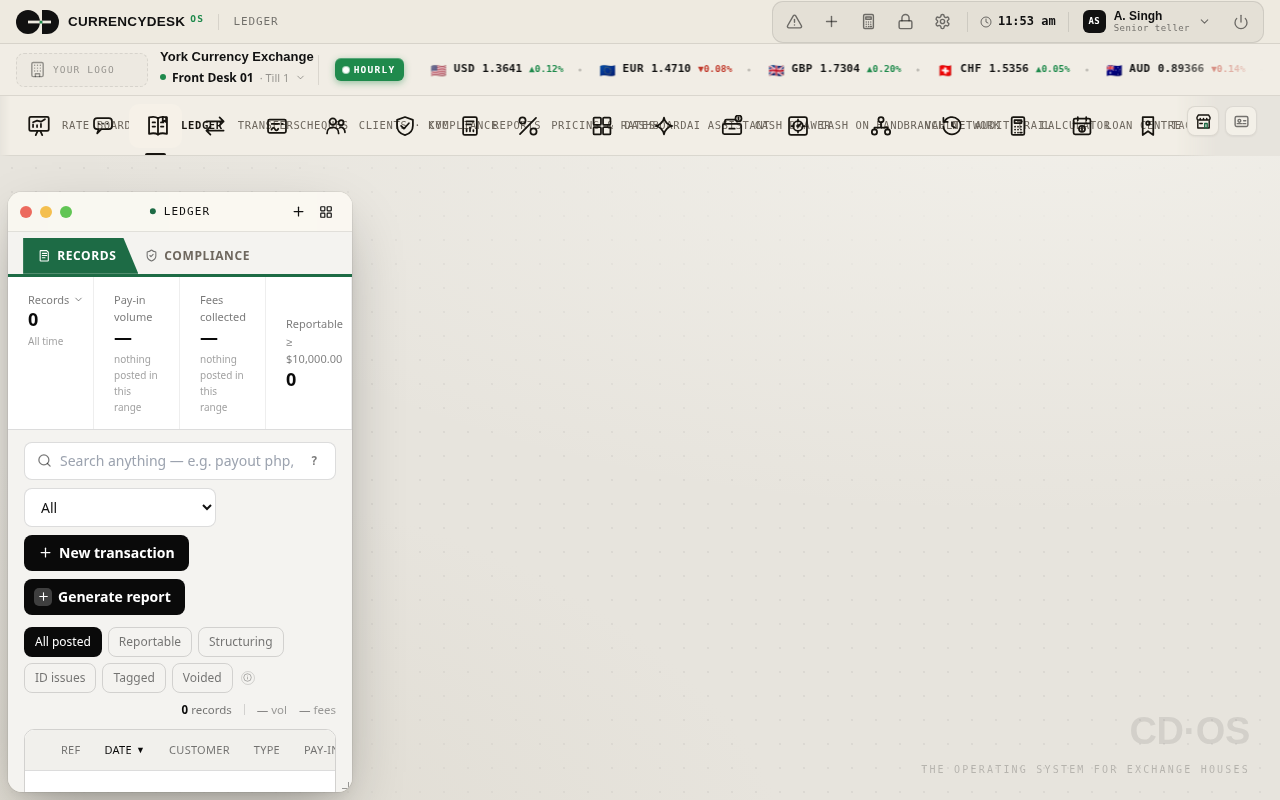
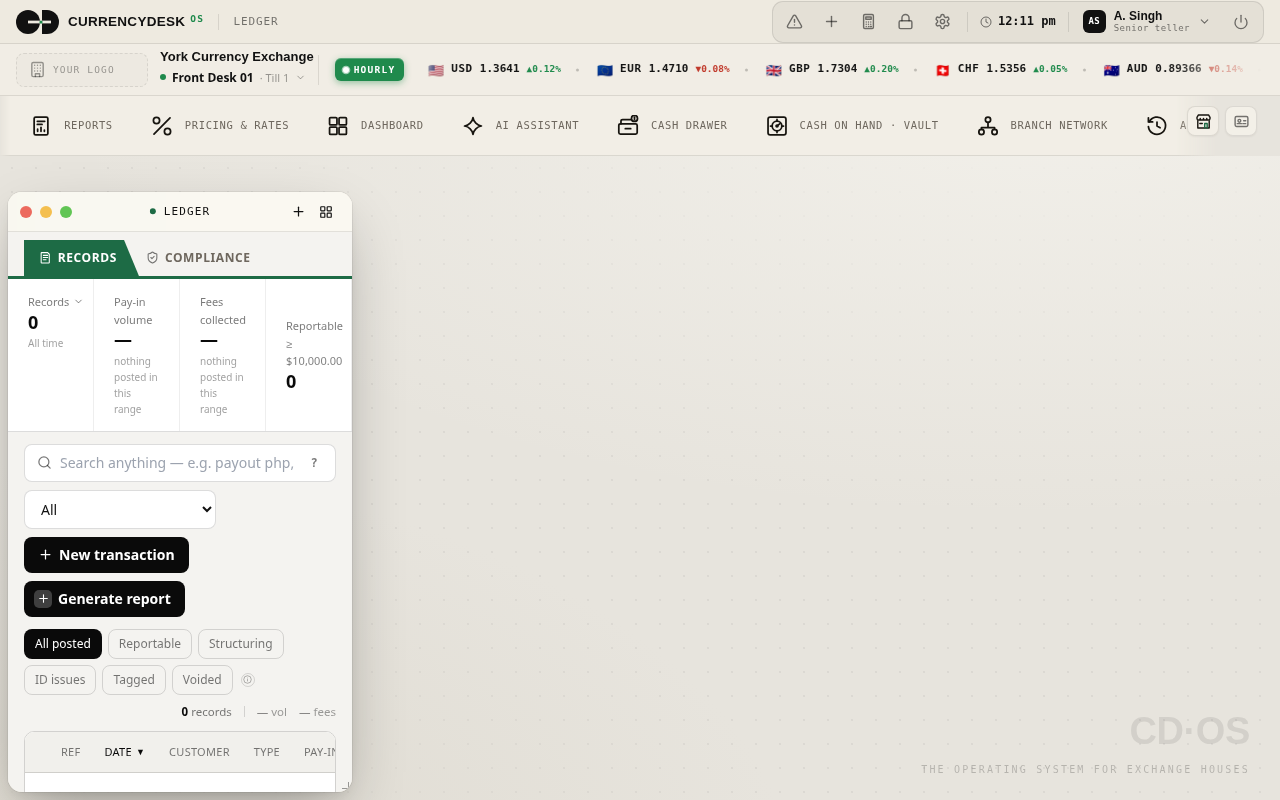
fix: keep module tabs from covering each other
The 44px minimum replaced the flex content floor, so the strip squeezed every tab and the next icon sat on the previous label. Tabs keep their width and the bar scrolls. Icon strokes do not take the click.

diff --git a/tests/e2e/nav-icons.spec.ts b/tests/e2e/nav-icons.spec.ts
@@ -97,6 +97,8 @@ type Reading = {
   effects: string[];
   label: Rgb;
   labelPoint: { x: number; y: number };
+  labelCenter: { x: number; y: number };
+  hit: string;
   iconPoint: { x: number; y: number };
   height: number;
   width: number;
@@ -138,6 +140,12 @@ async function readNav(page: Page): Promise<Reading[]> {
         effects: [...new Set(shapes.map((el) => getComputedStyle(el).vectorEffect))],
         label: rgb(label ? getComputedStyle(label).color : "") || [0, 0, 0],
         labelPoint: { x: labelBox.left + Math.min(8, labelBox.width / 2), y: labelBox.top + labelBox.height / 2 },
+        labelCenter: { x: labelBox.left + labelBox.width / 2, y: labelBox.top + labelBox.height / 2 },
+        hit: (() => {
+          const el = document.elementFromPoint(labelBox.left + labelBox.width / 2, labelBox.top + labelBox.height / 2);
+          const owner = el && el.closest("[data-app]");
+          return owner ? owner.getAttribute("data-app") || "" : "";
+        })(),
         /* The top of the tab sits above the glyph and the label,
            so this pixel is the bar behind the icon. */
         iconPoint: { x: box.left + box.width / 2, y: box.top + 3 },
@@ -231,6 +239,8 @@ test("every nav tab uses one icon stroke and clears contrast", async ({ page }) 
         expect(row.height, row.id).toBeGreaterThanOrEqual(44);
         expect(row.width, row.id).toBeGreaterThanOrEqual(44);
         const onScreen = row.iconPoint.x >= 24 && row.iconPoint.x <= width - 120 && row.iconPoint.y >= 8;
+        const labelOnScreen = row.labelCenter.x >= 24 && row.labelCenter.x <= width - 120 && row.labelCenter.y >= 8;
+        if (labelOnScreen) expect(row.hit, `${theme} ${width} ${row.id} hit`).toBe(row.id);
         if (onScreen) {
           const ground = sample(row.iconPoint.x, row.iconPoint.y);
           const stroke = row.strokes[0]!.match(/\d+/g)!.slice(0, 3).map(Number);

diff --git a/os-src/york-os.css b/os-src/york-os.css
@@ -637,6 +637,7 @@ button { font-family: inherit; }
    Dark mode uses the green accent. A selected tab is bold and
    has a bar, and the hit area is at least 44px. */
 #appbar .app-btn {
+  flex-shrink: 0;
   min-width: 44px;
   height: 44px;
   margin-top: 0;
@@ -648,6 +649,7 @@ button { font-family: inherit; }
   stroke-width: 1.75px;
   vector-effect: non-scaling-stroke;
   transition: none;
+  pointer-events: none;
 }
 #appbar .app-btn.is-active::after { height: 3px; background: #17140F; }
 html[data-cdtheme="dark"] #appbar .app-btn .ai svg,
